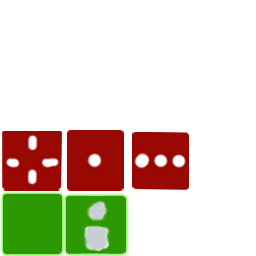
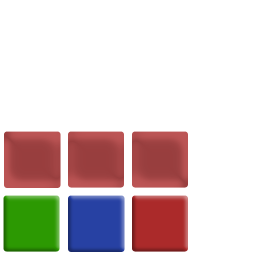
Improvement to the button UI. added decals

Changed region(s): [[0.0, 0.5, 0.75, 1.0]]

diff --git a/engine/uirendering.cpp b/engine/uirendering.cpp
@@ -21,12 +21,13 @@
 using namespace grinliz;
 
 
-UIButtonBox::UIButtonBox( const Texture* texture, const Screenport& port ) : screenport( port )
+UIButtonBox::UIButtonBox( const Texture* texture, const Texture* decoTexture, const Screenport& port ) : screenport( port )
 {
 	this->texture = texture;
+	this->decoTexture = decoTexture;
 	nIcons = 0;
 
-	const int SIZE = 45;
+	const int SIZE = 50;
 	const int PAD = 5;
 	cacheValid = false;
 
@@ -35,6 +36,8 @@ UIButtonBox::UIButtonBox( const Texture* texture, const Screenport& port ) : scr
 	columns = 1;
 	pad.Set( PAD, PAD );
 	alpha = 1.0f;
+
+	memset( icons, 0, sizeof( Icon )*MAX_ICONS );
 }
 
 
@@ -61,17 +64,44 @@ void UIButtonBox::CalcDimensions( int *x, int *y, int *w, int *h )
 }
 
 
-void UIButtonBox::SetButtons( const int* _icons, int _nIcons )
+void UIButtonBox::InitButtons( const int* _icons, int _nIcons )
 {
 	nIcons = _nIcons;
 	GLASSERT( nIcons <= MAX_ICONS );
 
 	for( int i=0; i<nIcons; ++i ) {
 		icons[i].id = _icons[i];
+		icons[i].decoID = DECO_NONE;
 		icons[i].enabled = true;
+		icons[i].text[0] = 0;
 	}
 
 	cacheValid = false;
+}
+
+
+void UIButtonBox::SetButton( int index, int iconID )
+{
+	GLASSERT( index < MAX_ICONS );
+	if ( index >= nIcons ) {
+		nIcons = index+1;
+		cacheValid = false;
+	}
+
+	if ( icons[index].id != iconID ) {
+		icons[index].id = iconID;
+		cacheValid = false;
+	}
+}
+
+
+void UIButtonBox::SetDeco( int index, int decoID )
+{
+	GLASSERT( index < nIcons );
+	if ( icons[index].decoID != decoID ) {
+		icons[index].decoID = decoID;
+		cacheValid = false;
+	}
 }
 
 
@@ -127,7 +157,13 @@ void UIButtonBox::CalcButtons()
 	// Don't apply the origin here. It is applied at render.
 	int row = 0;
 	int col = 0;
-
+	const float iconTX = 1.0f / (float)ICON_DX;
+	const float iconTY = 1.0f / (float)ICON_DY;
+	const float decoTX = 1.0f / (float)DECO_DX;
+	const float decoTY = 1.0f / (float)DECO_DY;
+	const float ALPHA_DISABLED	= 0.3f;
+	const float ALPHA_DECO		= 0.5f;
+	
 	for( int i=0; i<nIcons; ++i ) 
 	{
 		int x = col*size.x + col*pad.x;
@@ -139,19 +175,31 @@ void UIButtonBox::CalcButtons()
 		pos[i*4+3].Set( x,			y+size.y );		
 
 		int id = icons[i].id;
-		float dx = (float)(id%4)*0.25f;
-		float dy = (id/4)*0.25f;
+		float dx = (float)(id%ICON_DX)*iconTX;
+		float dy = (float)(id/ICON_DX)*iconTY;
 
 		tex[i*4+0].Set( dx,			dy );
-		tex[i*4+1].Set( dx+0.25f,	dy );
-		tex[i*4+2].Set( dx+0.25f,	dy+0.25f );
-		tex[i*4+3].Set( dx,			dy+0.25f );
+		tex[i*4+1].Set( dx+iconTX,	dy );
+		tex[i*4+2].Set( dx+iconTX,	dy+iconTY );
+		tex[i*4+3].Set( dx,			dy+iconTY );
 
-		Vector4F c = { 1.0f, 1.0f, 1.0f, alpha };
+		int decoID = icons[i].decoID;
+		dx = (float)(decoID%DECO_DX)*decoTX;
+		dy = (float)(decoID/DECO_DX)*decoTY;
+
+		texDeco[i*4+0].Set( dx,			dy );
+		texDeco[i*4+1].Set( dx+decoTX,	dy );
+		texDeco[i*4+2].Set( dx+decoTX,	dy+decoTY );
+		texDeco[i*4+3].Set( dx,			dy+decoTY );
+
+		Vector4<U8> c0 = { 255, 255, 255, (U8)LRintf( alpha*255.0f ) };
+		Vector4<U8> c1 = { 255, 255, 255, (U8)LRintf( alpha*255.0f*ALPHA_DECO ) };
 		if ( !icons[i].enabled ) {
-			c.Set( 1.0f, 1.0f, 1.0f, alpha*0.3f );
+			c0.Set( 255, 255, 255, (U8)LRintf( alpha*255.0f*ALPHA_DISABLED ) );
+			c1.Set( 255, 255, 255, (U8)LRintf( alpha*255.0f*ALPHA_DISABLED*ALPHA_DECO ) );
 		}
-		color[i*4+0] = color[i*4+1] = color[i*4+2] = color[i*4+3] = c;
+		color[i*4+0] = color[i*4+1] = color[i*4+2] = color[i*4+3] = c0;
+		colorDeco[i*4+0] = colorDeco[i*4+1] = colorDeco[i*4+2] = colorDeco[i*4+3] = c1;
 		
 		U16 idx = i*4;
 		index[i*6+0] = idx+0;
@@ -196,12 +244,19 @@ void UIButtonBox::Draw()
 
 	glVertexPointer(   2, GL_SHORT, 0, pos );
 	glTexCoordPointer( 2, GL_FLOAT, 0, tex ); 
-	glColorPointer( 4, GL_FLOAT, 0, color );
+	glColorPointer( 4, GL_UNSIGNED_BYTE, 0, color );
 
 	CHECK_GL_ERROR;
 	glDrawElements( GL_TRIANGLES, nIcons*6, GL_UNSIGNED_SHORT, index );
 	CHECK_GL_ERROR;
 		
+	glTexCoordPointer( 2, GL_FLOAT, 0, texDeco ); 
+	glColorPointer( 4, GL_UNSIGNED_BYTE, 0, colorDeco );
+	glBindTexture( GL_TEXTURE_2D, decoTexture->glID );
+	CHECK_GL_ERROR;
+	glDrawElements( GL_TRIANGLES, nIcons*6, GL_UNSIGNED_SHORT, index );
+	CHECK_GL_ERROR;
+
 	screenport.PopUI();
 
 	glEnableClientState( GL_NORMAL_ARRAY );

diff --git a/engine/uirendering.h b/engine/uirendering.h
@@ -23,18 +23,30 @@
 class UIButtonBox
 {
 public:
-	UIButtonBox( const Texture* texture, const Screenport& port );
+	UIButtonBox( const Texture* texture, const Texture* decoTexture, const Screenport& port );
 	~UIButtonBox()	{}
 
 	enum {
-		ICON_PLAIN			= 0,
-		ICON_CHARACTER		= 1,
-		ICON_AIM			= 4,
-		ICON_SNAP			= 5,
-		ICON_AUTO			= 6,
+		ICON_GREEN_BUTTON	= 0,
+		ICON_BLUE_BUTTON	= 1,
+		ICON_RED_BUTTON		= 2,
+		ICON_TRANS_RED		= 4,
+		ICON_NONE			= 15,
 
-		MAX_ICONS = 20,
-		MAX_TEXT_LEN = 12,
+		DECO_CHARACTER		= 0,
+		DECO_PISTOL			= 1,
+		DECO_RIFLE			= 2,
+		DECO_AIMED			= 8,
+		DECO_AUTO			= 9,
+		DECO_SNAP			= 10,
+		DECO_NONE			= 31,
+
+		ICON_DX				= 4,
+		ICON_DY				= 4,
+		DECO_DX				= 8,
+		DECO_DY				= 4,
+		MAX_ICONS			= 20,
+		MAX_TEXT_LEN		= 12,
 	};
 
 	// Coordinates in pixels.
@@ -56,7 +68,10 @@ public:
 													}
 												}
 
-	void SetButtons( const int* icons, int nIcons );
+	void InitButtons( const int* icons, int nIcons );
+	void SetButton( int index, int iconID );
+	void SetDeco( int index, int decoID );
+
 	void SetText( const char** text );
 	void SetText( int index, const char* text );
 
@@ -78,11 +93,13 @@ private:
 	struct Icon
 	{
 		int						id;
+		int						decoID;
 		char					text[MAX_TEXT_LEN];
 		bool					enabled;
 		grinliz::Vector2I		textPos;
 	};
 	const Texture* texture;
+	const Texture* decoTexture;
 	int nIcons;
 
 	bool cacheValid;
@@ -96,7 +113,10 @@ private:
 	Icon					icons[MAX_ICONS];
 	grinliz::Vector2< S16 > pos[MAX_ICONS*4];
 	grinliz::Vector2F		tex[MAX_ICONS*4];
-	grinliz::Vector4F		color[MAX_ICONS*4];
+	grinliz::Vector2F		texDeco[MAX_ICONS*4];
+	grinliz::Vector4< U8 >	color[MAX_ICONS*4];
+	grinliz::Vector4< U8 >	colorDeco[MAX_ICONS*4];
+
 	U16						index[6*MAX_ICONS];
 };
 

diff --git a/game/battlescene.cpp b/game/battlescene.cpp
@@ -22,22 +22,23 @@ BattleScene::BattleScene( Game* game ) : Scene( game )
 	path.Clear();
 
 	// On screen menu.
-	Texture* t = game->GetTexture( "icons" );	
-	widgets = new UIButtonBox( t, engine->GetScreenport() );
+	widgets = new UIButtonBox( game->GetTexture( "icons" ), game->GetTexture( "iconDeco" ), engine->GetScreenport() );
 	
 	int x, y, w, h;
 
-	const int icons[] = { UIButtonBox::ICON_PLAIN, UIButtonBox::ICON_PLAIN, UIButtonBox::ICON_CHARACTER, UIButtonBox::ICON_PLAIN };
-	const char* iconText[] = { "home", "d/n", 0, "fow" };
-	widgets->SetButtons( icons, 4 );
-	widgets->SetText( iconText );
-	widgets->CalcDimensions( &x, &y, &w, &h );
-	widgets->SetOrigin( 0, engine->GetScreenport().UIHeight()-h );
-
+	{
+		const int icons[] = { UIButtonBox::ICON_GREEN_BUTTON, UIButtonBox::ICON_GREEN_BUTTON, UIButtonBox::ICON_GREEN_BUTTON, UIButtonBox::ICON_GREEN_BUTTON };
+		const char* iconText[] = { "home", "d/n", 0, "fow" };
+		widgets->InitButtons( icons, 4 );
+		widgets->SetDeco( 2, UIButtonBox::DECO_CHARACTER );
+		widgets->SetText( iconText );
+		widgets->CalcDimensions( &x, &y, &w, &h );
+		widgets->SetOrigin( 0, engine->GetScreenport().UIHeight()-h );
+	}
 	// When enemy targeted.
-	fireWidget = new UIButtonBox( t, engine->GetScreenport() );
-	const int fireIcons[] = { UIButtonBox::ICON_AUTO, UIButtonBox::ICON_SNAP, UIButtonBox::ICON_AIM };
-	fireWidget->SetButtons( fireIcons, 3 );
+	fireWidget = new UIButtonBox( game->GetTexture( "icons" ), game->GetTexture( "iconDeco" ), engine->GetScreenport() );
+	const int fireIcons[] = { UIButtonBox::ICON_TRANS_RED, UIButtonBox::ICON_TRANS_RED, UIButtonBox::ICON_TRANS_RED };
+	fireWidget->InitButtons( fireIcons, 3 );
 
 	engine->EnableMap( true );
 

diff --git a/game/characterscene.cpp b/game/characterscene.cpp
@@ -11,13 +11,14 @@ CharacterScene::CharacterScene( Game* _game ) : Scene( _game )
 	engine = &_game->engine;
 
 	Texture* t = game->GetTexture( "icons" );	
-	widgets = new UIButtonBox( t, engine->GetScreenport() );
-	charInvWidget = new UIButtonBox( t, engine->GetScreenport() );
+	Texture* t2 = game->GetTexture( "iconDeco" );	
+	widgets = new UIButtonBox( t, t2, engine->GetScreenport() );
+	charInvWidget = new UIButtonBox( t, t2, engine->GetScreenport() );
 
 	{
-		int icons[] = { UIButtonBox::ICON_PLAIN };
+		int icons[] = { UIButtonBox::ICON_GREEN_BUTTON };
 		const char* iconText[] = { "back" };
-		widgets->SetButtons( icons, 1 );
+		widgets->InitButtons( icons, 1 );
 		widgets->SetOrigin( 5, 5 );
 		widgets->SetText( iconText );
 	}
@@ -37,14 +38,15 @@ CharacterScene::CharacterScene( Game* _game ) : Scene( _game )
 	unit.SetYRotation( -18.0f );
 
 	{
-		int icons[20] = { UIButtonBox::ICON_PLAIN };
-		charInvWidget->SetButtons( icons, 20 );
+		int icons[20] = { UIButtonBox::ICON_GREEN_BUTTON };
+		charInvWidget->InitButtons( icons, 20 );
 		charInvWidget->SetColumns( 4 );
 		charInvWidget->SetOrigin( 5, 70 );
 		// 5 letters...
-		charInvWidget->SetButtonSize( 10*4+16, 45 );
+		charInvWidget->SetButtonSize( 10*4+16+5, 45 );
+		charInvWidget->SetPadding( 0, 0 );
 		charInvWidget->SetAlpha( 0.8f );
-		
+
 	}
 	SetInvWidgetText();
 }

diff --git a/game/gameresources.cpp b/game/gameresources.cpp
@@ -49,6 +49,7 @@ enum {
 const TextureDef gTextureDef[] = 
 {
 	{	"icons",		0	},
+	{	"iconDeco",		0	},
 	{	"stdfont2",		0	},
 	{	"woodDark",		0	},
 	{	"woodDarkUFO",	0	},
